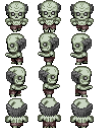
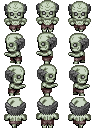
zombies walking

diff --git a/js/models/Zombie.js b/js/models/Zombie.js
@@ -29,10 +29,16 @@ export default class Zombie extends Phaser.Physics.Arcade.Sprite {
             this.bullet = new Bullet(this.scene, -500, -500, this.typeBullet).setActive(false)
             this.bullet.id = 1
         }
+
+        this.upAnim = 'up' + this.img
+        this.downAnim = 'down' + this.img
+        this.leftAnim = 'left' + this.img
+        this.rightAnim = 'right' + this.img
+        this.pos = this.downAnim
+
         this.updateAnims()
 
-        //executes animation
-        this.play('down'+this.img);
+        this.play(this.pos, 0);
 
     }
 
@@ -53,24 +59,25 @@ export default class Zombie extends Phaser.Physics.Arcade.Sprite {
     }
 
     updateAnims(){
-        if(!this.scene.anims.exists('up' + this.img)){
+        if(!this.scene.anims.exists(this.upAnim)){
+            console.log("olaaaaaaaaaaaaaaaaaaaaa")
             this.scene.anims.create({
-                key: 'up'+this.img,
+                key: this.upAnim,
                 frameRate: 8,
                 frames: this.scene.anims.generateFrameNumbers(this.img, { start: 9, end: 11 })
             });
             this.scene.anims.create({
-                key: 'down'+this.img,
+                key: this.downAnim,
                 frameRate: 8,
                 frames: this.scene.anims.generateFrameNumbers(this.img, { start: 0, end: 2 })
             });
             this.scene.anims.create({
-                key: 'left'+this.img,
+                key: this.leftAnim,
                 frameRate: 8,
                 frames: this.scene.anims.generateFrameNumbers(this.img, { start: 3, end: 5 })
             });
             this.scene.anims.create({
-                key: 'right'+this.img,
+                key: this.rightAnim,
                 frameRate: 8,
                 frames: this.scene.anims.generateFrameNumbers(this.img, { start: 6, end: 8 })
             });
@@ -95,13 +102,24 @@ export default class Zombie extends Phaser.Physics.Arcade.Sprite {
         const vx = this.baseVelocity * Math.cos(alpha);
         const vy = this.baseVelocity * Math.sin(alpha);
         if(Math.abs(vx) > Math.abs(vy)){
-            vx < 0 ? this.play('left'+this.img) : this.play('right'+this.img)
+            vx < 0 ? this.playAnim(this.leftAnim) : this.playAnim(this.rightAnim)
         }else{
-            vy > 0 ? this.play('down'+this.img) : this.play('up'+this.img)
+            vy < 0 ? this.playAnim(this.upAnim) : this.playAnim(this.downAnim)
         }
         this.setVelocityX(vx);
         this.setVelocityY(vy);
         socket.emit('zombiePosition', {id: this.id, x: this.x, y: this.y})
+    }
+
+    playAnim(posAnim){
+        this.pos = posAnim
+        if(!this.anims.isPlaying){
+            console.log(this.pos, posAnim)
+            this.play(this.pos)
+        }
+        if(this.anims.isPlaying && !(this.anims.currentAnim.key === this.pos)){
+            this.play(this.pos)
+        }
     }
 
     bulletOutsideCanvas(){

diff --git a/js/models/Player.js b/js/models/Player.js
@@ -45,34 +45,40 @@ export default class Player extends Phaser.Physics.Arcade.Sprite {
         this.leftAnim = 'left' + this.img
         this.rightAnim = 'right' + this.img
 
-        this.scene.anims.create({
-            key: this.upAnim,
-            frameRate: 8,
-            frames: this.scene.anims.generateFrameNumbers(this.img, { start: 9, end: 11 })
-        });
-        this.scene.anims.create({
-            key: this.downAnim,
-            frameRate: 8,
-            frames: this.scene.anims.generateFrameNumbers(this.img, { start: 0, end: 2 })
-        });
-        this.scene.anims.create({
-            key: this.leftAnim,
-            frameRate: 8,
-            frames: this.scene.anims.generateFrameNumbers(this.img, { start: 3, end: 5 })
-        });
-        this.scene.anims.create({
-            key:  this.rightAnim,
-            frameRate: 8,
-            frames: this.scene.anims.generateFrameNumbers(this.img, { start: 6, end: 8 })
-        });
-        
         this.pos = this.downAnim
 
-        this.play(this.pos)
+        this.updateAnims()
+        
+        this.play(this.pos, 0)
 
         this.shopNum = 0
         this.timeToShop = 0
         this.delayShop = 1000
+    }
+
+    updateAnims(){
+        if(!this.scene.anims.exists(this.upAnim)){
+            this.scene.anims.create({
+                key: this.upAnim,
+                frameRate: 8,
+                frames: this.scene.anims.generateFrameNumbers(this.img, { start: 9, end: 11 })
+            });
+            this.scene.anims.create({
+                key: this.downAnim,
+                frameRate: 8,
+                frames: this.scene.anims.generateFrameNumbers(this.img, { start: 0, end: 2 })
+            });
+            this.scene.anims.create({
+                key: this.leftAnim,
+                frameRate: 8,
+                frames: this.scene.anims.generateFrameNumbers(this.img, { start: 3, end: 5 })
+            });
+            this.scene.anims.create({
+                key:  this.rightAnim,
+                frameRate: 8,
+                frames: this.scene.anims.generateFrameNumbers(this.img, { start: 6, end: 8 })
+            });
+        }
     }
 
     update(time, data) {

diff --git a/js/scene/BootGame.js b/js/scene/BootGame.js
@@ -29,18 +29,18 @@ export default class bootGame extends Phaser.Scene {
         this.load.image("fireball", "assets/fireball.png");
 
         this.load.spritesheet("z1", "assets/z1.png", {
-            frameHeight: 32.5,
-            frameWidth: 128/4
+            frameWidth: 31.5,
+            frameHeight: 32
         });
 
         this.load.spritesheet("z2", "assets/z2.png", {
-            frameHeight: 32.5,
-            frameWidth: 128/4
+            frameWidth: 32.6,
+            frameHeight: 32
         });
 
         this.load.spritesheet("z3", "assets/z3.png", {
-            frameHeight: 31.1,
-            frameWidth: 128/4
+            frameWidth: 32,
+            frameHeight: 32
         });
 
         this.load.image("regenLife", "assets/regenLife.png");

diff --git a/js/scene/Level1.js b/js/scene/Level1.js
@@ -210,7 +210,7 @@ export default class level1 extends Phaser.Scene {
             this.moneyLabel.setText(this.myPlayer.money)
         }
         
-        this.socket.emit('lifeZombie', {idzombie:zombie.id, idBullet:bullet.id, life:zombie.life})
+        this.socket.emit('lifeZombie', {idZombie:zombie.id, idBullet:bullet.id, life:zombie.life})
     }
 
     playerActions(data){
